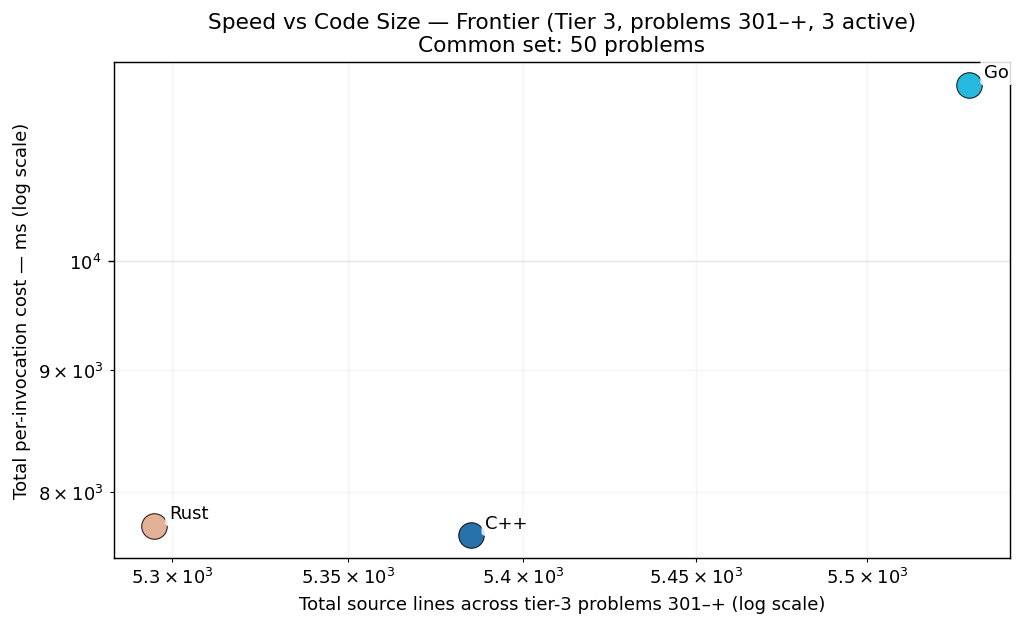
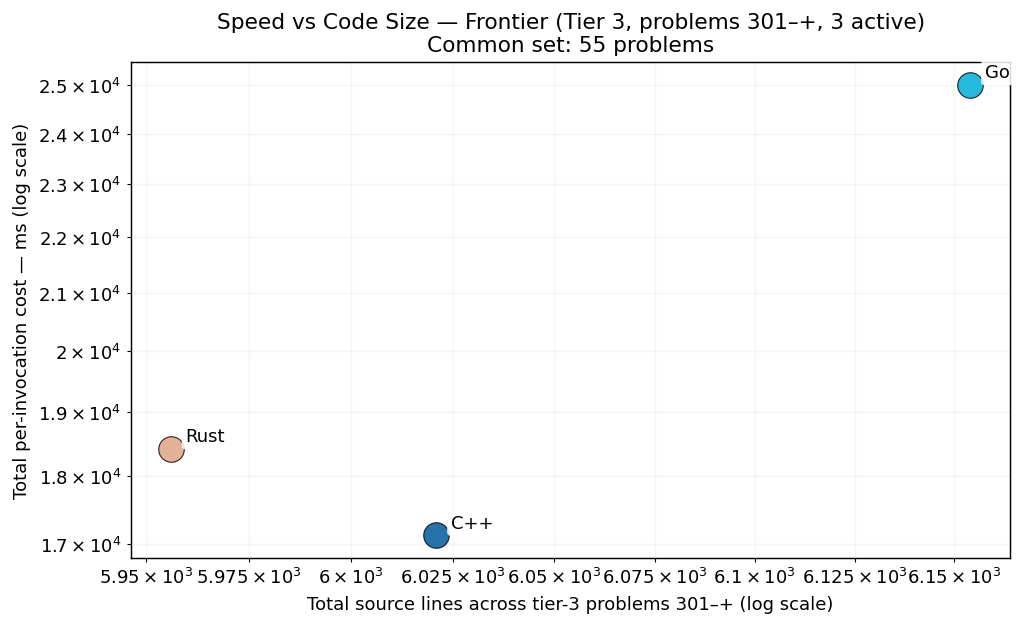
tier-3 rust batch B8: +5 cells (p308/309/338/357/379); 3-way verified; rust ~54 cells in 301-400

diff --git a/RESULTS.md b/RESULTS.md
@@ -1,6 +1,6 @@
 # Project Euler — Cross-Language Benchmarks
 
-> **Scope: 3100 in-scope cells across 500 problems × tiered languages — 2612 measured (84.3% coverage).**
+> **Scope: 3100 in-scope cells across 500 problems × tiered languages — 2617 measured (84.4% coverage).**
 > The cross-language ranking below is computed over the **200-problem common set** (problems in 1-200 where every language has a passing measurement) — the apples-to-apples Foundation comparison surface.  Per-tier rankings and coverage detail appear further below.
 > Growing carefully — each new problem and language is audited for state-leak
 > safety, verified for answer correctness, and added only when it cleanly fits the
@@ -68,15 +68,15 @@ Same scatter as the Foundation chart, restricted to the tier-2 active languages 
 
 The frontier verification trio — C++, Go, Rust — on problems above 300. 3-way cross-language agreement is the verification protocol (strictly stronger than 2-way; see JOURNEY.md "Tier Reframing" episode for the p254 lesson that motivated it). Python and Zig are explicitly out of this tier — python's wall cost makes it impractical at level 5+, and zig's role caps at Tier 2.
 
-### Per-Invocation Cost (Common Set, 50 of ≤200 problems in scope)
+### Per-Invocation Cost (Common Set, 55 of ≤200 problems in scope)
 
 ![Per-Invocation Cost — Tier 3](charts/per_iter_total_tier3.png)
 
-| Rank | Language | Total (50-problem common set) | Lines of code | vs Fastest |
+| Rank | Language | Total (55-problem common set) | Lines of code | vs Fastest |
 |------|----------|--------------------:|--------------:|-----------:|
-| 1 | **C++** | 7.67 s | 5,385 | 1.00× |
-| 2 | **Rust** | 7.74 s | 5,295 | 1.01× |
-| 3 | **Go** | 11.86 s | 5,530 | 1.55× |
+| 1 | **C++** | 17.13 s | 6,021 | 1.00× |
+| 2 | **Rust** | 18.42 s | 5,956 | 1.08× |
+| 3 | **Go** | 25.01 s | 6,154 | 1.46× |
 
 ### Speed vs Code Size
 

diff --git a/per_problem/per_problem_301-400.md b/per_problem/per_problem_301-400.md
@@ -14,8 +14,8 @@ column per language in tier-1 display order (native → managed → interpreted)
 | **p305** | 253.6 µs | 285.6 µs | 158.1 µs |
 | **p306** | 92.5 µs | 70.2 µs | 30.0 µs |
 | **p307** | 318.3 µs | 224.3 µs | 462.7 µs |
-| **p308** | 2.37 s | — | 2.70 s |
-| **p309** | 1.85 s | — | 3.68 s |
+| **p308** | 2.37 s | 2.84 s | 2.70 s |
+| **p309** | 1.85 s | 2.28 s | 3.68 s |
 | **p310** | 66.49 ms | 34.20 ms | 37.66 ms |
 | **p311** | 5.01 s | — | 6.66 s |
 | **p312** | 6.3 µs | 9.2 µs | 4.8 µs |
@@ -44,7 +44,7 @@ column per language in tier-1 display order (native → managed → interpreted)
 | **p335** | 3.3 µs | 3.1 µs | 2.5 µs |
 | **p336** | 128.92 ms | 274.73 ms | 93.82 ms |
 | **p337** | 1.49 s | 1.60 s | 2.55 s |
-| **p338** | 1.86 s | — | 2.36 s |
+| **p338** | 1.86 s | 2.00 s | 2.36 s |
 | **p339** | 1.22 s | 1.29 s | 2.76 s |
 | **p340** | 83 ns | 42 ns | 17.4 µs |
 | **p341** | 113.95 ms | 155.49 ms | 184.87 ms |
@@ -63,7 +63,7 @@ column per language in tier-1 display order (native → managed → interpreted)
 | **p354** | — | — | — |
 | **p355** | 42.77 ms | 33.22 ms | 89.32 ms |
 | **p356** | — | — | — |
-| **p357** | 1.15 s | — | 2.13 s |
+| **p357** | 1.15 s | 1.17 s | 2.13 s |
 | **p358** | 31.0 µs | 17.1 µs | 16.7 µs |
 | **p359** | 11.5 µs | 5.0 µs | 192.9 µs |
 | **p360** | — | — | — |
@@ -85,7 +85,7 @@ column per language in tier-1 display order (native → managed → interpreted)
 | **p376** | — | — | — |
 | **p377** | — | — | — |
 | **p378** | 3.59 s | — | 3.59 s |
-| **p379** | 2.23 s | — | 2.27 s |
+| **p379** | 2.23 s | 2.39 s | 2.27 s |
 | **p380** | — | — | — |
 | **p381** | 504.11 ms | 357.60 ms | 425.47 ms |
 | **p382** | — | — | — |
